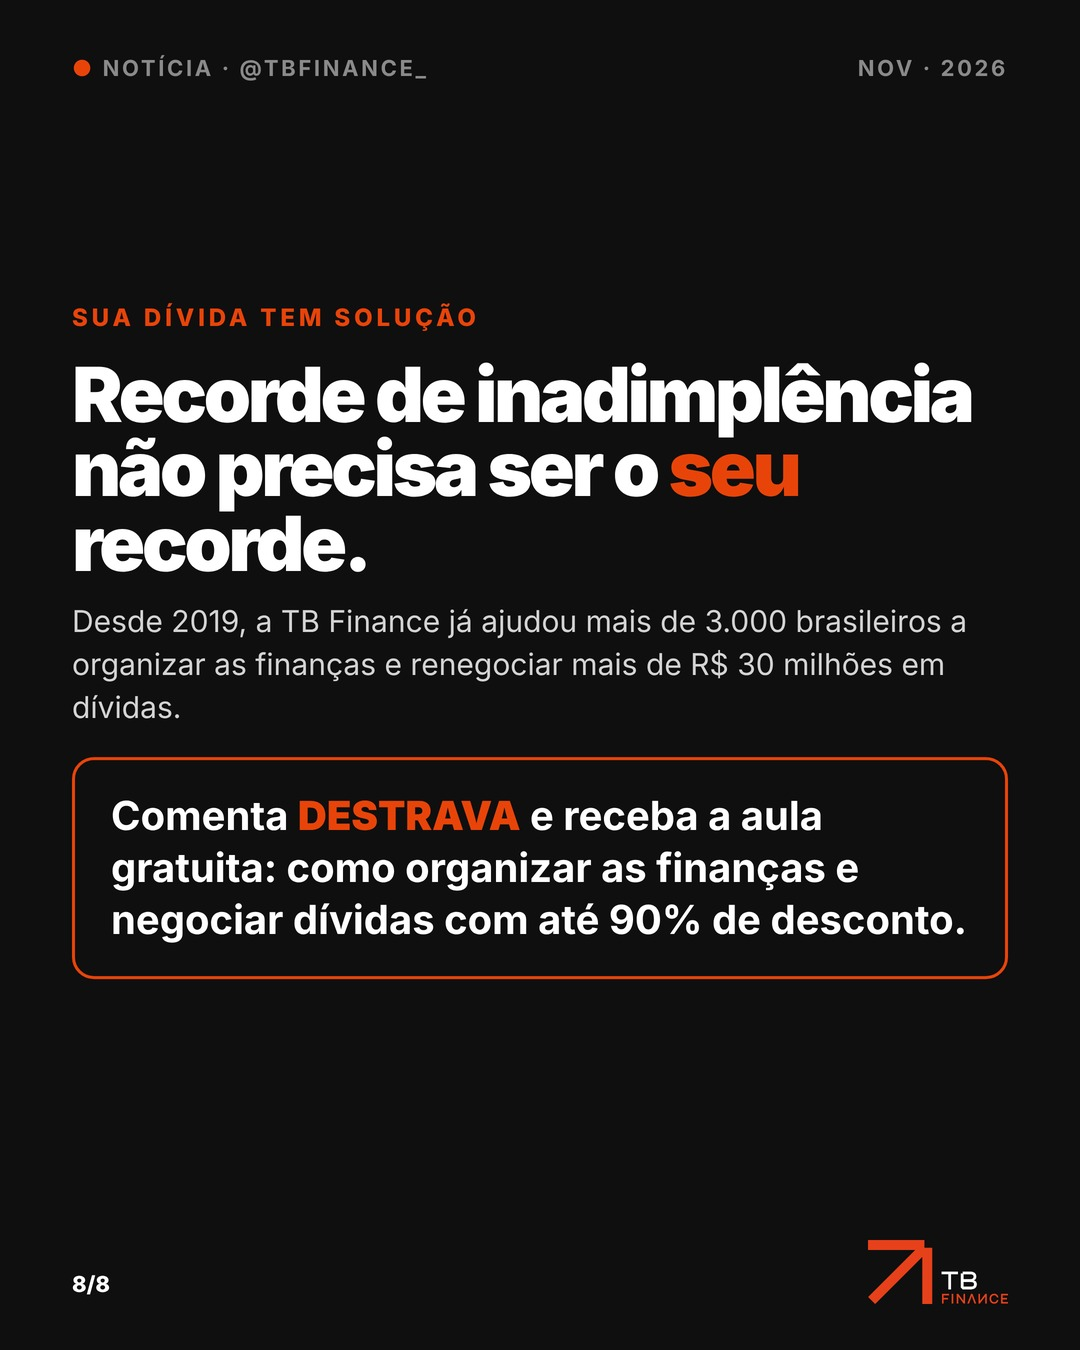
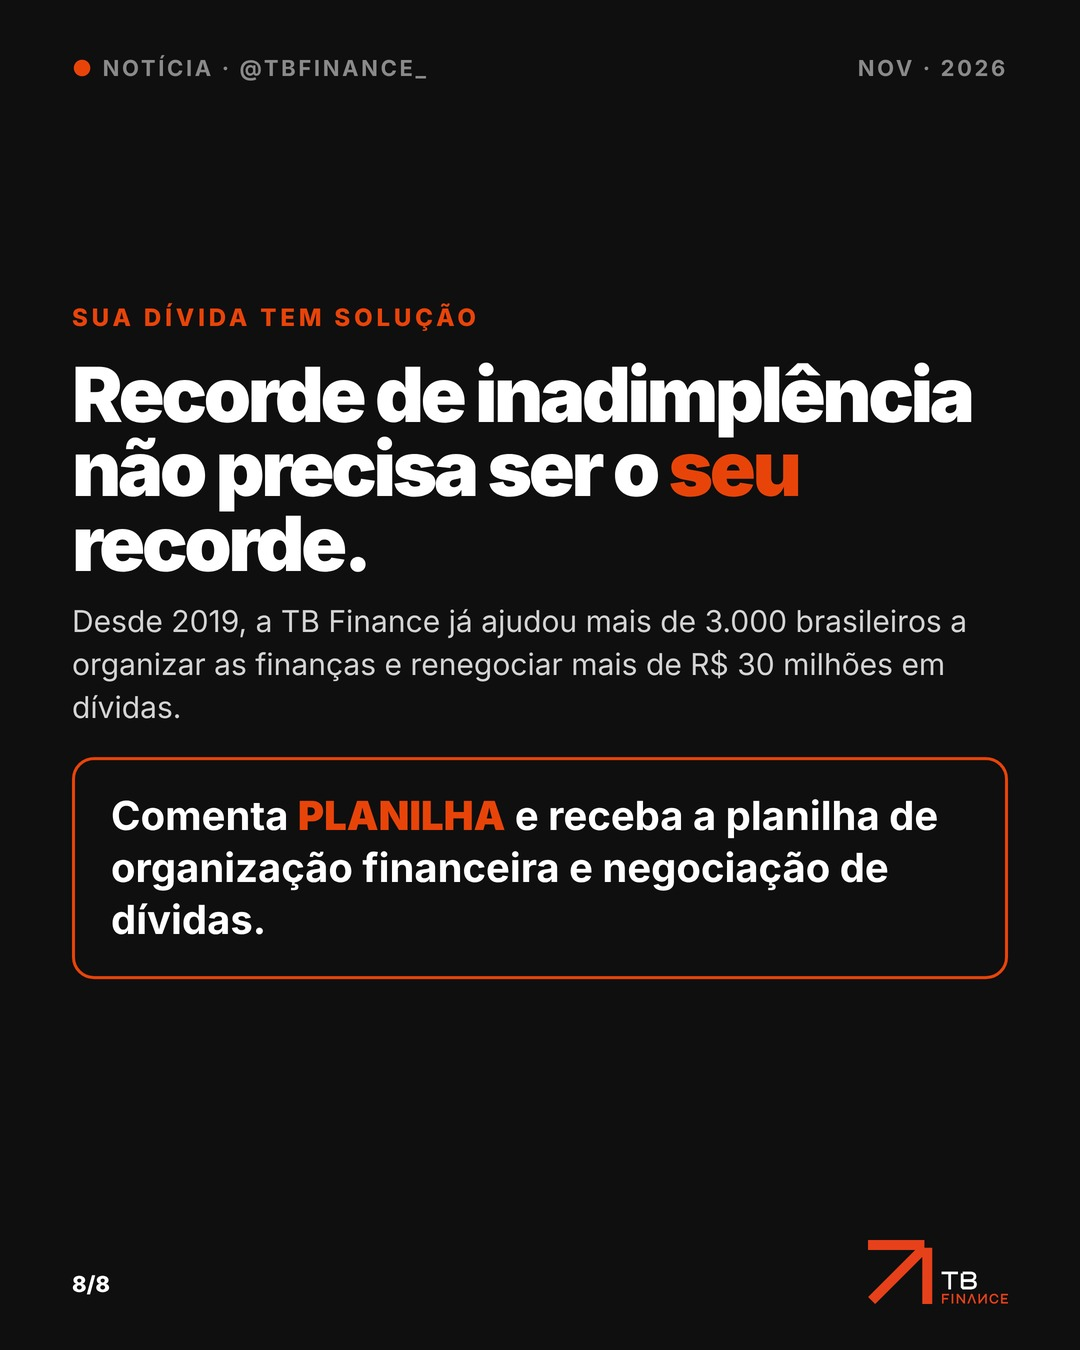
feat(marketing): carrossel do lançamento do GTA 6 na TB (18/11 19h); inadimplência vai para 23/11 com CTA PLANILHA
Claude-Session: https://claude.ai/code/session_01PgX7nvM3iYSo6xDzmGNfnx

Changed region(s): [[0.0917, 0.5911, 0.8861, 0.7156]]

diff --git a/marketing/tbfinance/carrosseis/2026-11-gta6-lancamento/slides/06.html b/marketing/tbfinance/carrosseis/2026-11-gta6-lancamento/slides/06.html
@@ -1,0 +1,7 @@
+<html><head><link rel="stylesheet" href="ed.css"><style>
+.dark .top{color:#fff}.dark .src{color:#777}.dark p{color:#D4D4D4}.dark p b{color:#fff}
+ul.l{list-style:none;margin-top:34px}ul.l li{font-size:36px;line-height:1.35;font-weight:600;padding:16px 0 16px 54px;position:relative;border-bottom:1px solid rgba(0,0,0,.08)}
+ul.l li:before{content:'→';position:absolute;left:0;color:#E8440A;font-weight:900}.dark ul.l li{border-color:rgba(255,255,255,.12);color:#fff}
+.grain{position:absolute;inset:0;background:url(grain.png);opacity:.07;mix-blend-mode:overlay;pointer-events:none}
+.big2{font-size:150px;font-weight:900;letter-spacing:-.05em;line-height:.95;color:#E8440A}
+</style></head><body class="dark"><div class="top" style="z-index:3"><span><b>●</b> NOTÍCIA · @TBFINANCE_</span><span>18 NOV · 2026</span></div><div style="position:absolute;inset:0;background:url(hq-cofrinho.jpg) center 0%/cover;filter:contrast(1.06) saturate(.92) brightness(0.95)"></div><div style="position:absolute;inset:0;background:linear-gradient(180deg,rgba(15,15,15,.55) 0%,rgba(15,15,15,0) 14%,rgba(15,15,15,0) 12%,rgba(15,15,15,.88) 30%,#0F0F0F 42%)"></div><div class="grain"></div><div class="wrap" style="top:auto;bottom:110px"><div class="kick">COMO JOGAR SEM VIRAR PROCURADO</div><h2 style="color:#fff">4 regras antes de apertar <span class="or">comprar</span>:</h2><ul class="l"><li><b>Some as parcelas</b> que você já tem antes de criar outra</li><li><b>Pix à vista</b> costuma sair mais barato (R$ 418 na Amazon)</li><li><b>Nunca pague a fatura no mínimo</b>: o rotativo pode dobrar a dívida</li><li><b>Não precisa ser no dia 1</b>: o jogo não vai fugir</li></ul></div><div class="src">Fonte: Amazon (preço no Pix em 18/11/2026); Lei 14.690/2023. Foto: Ken Teegardin (CC BY-SA 2.0).</div><div class="pg">6/7</div></body></html>

diff --git a/marketing/tbfinance/carrosseis/2026-11-gta6-lancamento/slides/02.html b/marketing/tbfinance/carrosseis/2026-11-gta6-lancamento/slides/02.html
@@ -1,0 +1,7 @@
+<html><head><link rel="stylesheet" href="ed.css"><style>
+.dark .top{color:#fff}.dark .src{color:#777}.dark p{color:#D4D4D4}.dark p b{color:#fff}
+ul.l{list-style:none;margin-top:34px}ul.l li{font-size:36px;line-height:1.35;font-weight:600;padding:16px 0 16px 54px;position:relative;border-bottom:1px solid rgba(0,0,0,.08)}
+ul.l li:before{content:'→';position:absolute;left:0;color:#E8440A;font-weight:900}.dark ul.l li{border-color:rgba(255,255,255,.12);color:#fff}
+.grain{position:absolute;inset:0;background:url(grain.png);opacity:.07;mix-blend-mode:overlay;pointer-events:none}
+.big2{font-size:150px;font-weight:900;letter-spacing:-.05em;line-height:.95;color:#E8440A}
+</style></head><body class="dark"><div class="top" style="z-index:3"><span><b>●</b> NOTÍCIA · @TBFINANCE_</span><span>18 NOV · 2026</span></div><div style="position:absolute;inset:0;background:url(hq-rockstar-north.jpg) center 30%/cover;filter:contrast(1.06) saturate(.92) brightness(1)"></div><div style="position:absolute;inset:0;background:linear-gradient(180deg,rgba(15,15,15,.55) 0%,rgba(15,15,15,0) 14%,rgba(15,15,15,0) 22%,rgba(15,15,15,.88) 40%,#0F0F0F 52%)"></div><div class="grain"></div><div class="wrap" style="top:auto;bottom:110px"><div class="kick">O QUE ACONTECEU</div><h2 style="color:#fff">Depois de 13 anos de espera, o lançamento mais aguardado dos games está rodando o mundo.</h2><ul class="l"><li><b>Nova Zelândia:</b> liberou às 8h de hoje (horário de Brasília)</li><li><b>Brasil:</b> 0h desta quinta, 19/11</li><li><b>Metacritic:</b> nota <b>99</b>, a maior já registrada no site</li></ul></div><div class="src">Fonte: Jovem Pan (18/11/2026), com dados do Metacritic. Foto: Rockstar North, Edimburgo, por Discott (CC0).</div><div class="pg">2/7</div></body></html>

diff --git a/marketing/tbfinance/carrosseis/2026-11-gta6-lancamento/slides/01.html b/marketing/tbfinance/carrosseis/2026-11-gta6-lancamento/slides/01.html
@@ -1,0 +1,10 @@
+<html><head><link rel="stylesheet" href="ed.css"><style>
+.dark .top{color:#fff}.dark .src{color:#777}.dark p{color:#D4D4D4}.dark p b{color:#fff}
+ul.l{list-style:none;margin-top:34px}ul.l li{font-size:36px;line-height:1.35;font-weight:600;padding:16px 0 16px 54px;position:relative;border-bottom:1px solid rgba(0,0,0,.08)}
+ul.l li:before{content:'→';position:absolute;left:0;color:#E8440A;font-weight:900}.dark ul.l li{border-color:rgba(255,255,255,.12);color:#fff}
+.grain{position:absolute;inset:0;background:url(grain.png);opacity:.07;mix-blend-mode:overlay;pointer-events:none}
+.big2{font-size:150px;font-weight:900;letter-spacing:-.05em;line-height:.95;color:#E8440A}
+</style></head><body class="dark"><div class="top" style="z-index:3"><span><b>●</b> NOTÍCIA · @TBFINANCE_</span><span>18 NOV · 2026</span></div><div class="bg" style="position:absolute;left:0;right:0;top:0;height:1350px;background:url(hq-ps5.jpg) center 40%/cover;filter:contrast(1.06) saturate(.92) brightness(0.9)"></div><div class="grain"></div><div style="position:absolute;inset:0;background:linear-gradient(180deg,rgba(15,15,15,.5) 0%,rgba(15,15,15,0) 18%,rgba(15,15,15,0) 38%,rgba(15,15,15,.92) 56%,#0F0F0F 66%)"></div><div style="position:absolute;left:72px;right:72px;bottom:130px"><div class="kick" style="color:#FF6B3D">GTA 6 · HOJE À MEIA-NOITE</div>
+<h1 style="color:#fff;font-size:74px">O GTA 6 já saiu na Nova Zelândia. No Brasil, chega à meia-noite. <span class="or">Cabe no seu bolso?</span></h1></div>
+<div style="position:absolute;bottom:60px;left:72px;font-size:26px;font-weight:800;letter-spacing:.12em;color:#E8440A">ARRASTE →</div>
+<div style="position:absolute;left:72px;bottom:24px;font-size:15px;color:#777">Foto: Osh33m (CC BY-SA 4.0)</div></body></html>

diff --git a/marketing/tbfinance/carrosseis/2026-11-gta6-lancamento/slides/03.html b/marketing/tbfinance/carrosseis/2026-11-gta6-lancamento/slides/03.html
@@ -1,0 +1,7 @@
+<html><head><link rel="stylesheet" href="ed.css"><style>
+.dark .top{color:#fff}.dark .src{color:#777}.dark p{color:#D4D4D4}.dark p b{color:#fff}
+ul.l{list-style:none;margin-top:34px}ul.l li{font-size:36px;line-height:1.35;font-weight:600;padding:16px 0 16px 54px;position:relative;border-bottom:1px solid rgba(0,0,0,.08)}
+ul.l li:before{content:'→';position:absolute;left:0;color:#E8440A;font-weight:900}.dark ul.l li{border-color:rgba(255,255,255,.12);color:#fff}
+.grain{position:absolute;inset:0;background:url(grain.png);opacity:.07;mix-blend-mode:overlay;pointer-events:none}
+.big2{font-size:150px;font-weight:900;letter-spacing:-.05em;line-height:.95;color:#E8440A}
+</style></head><body class="dark"><div class="top" style="z-index:3"><span><b>●</b> NOTÍCIA · @TBFINANCE_</span><span>18 NOV · 2026</span></div><div style="position:absolute;inset:0;background:url(hq-controle.jpg) center 30%/cover;filter:contrast(1.06) saturate(.92) brightness(1)"></div><div style="position:absolute;inset:0;background:linear-gradient(180deg,rgba(15,15,15,.55) 0%,rgba(15,15,15,0) 14%,rgba(15,15,15,0) 20%,rgba(15,15,15,.88) 38%,#0F0F0F 50%)"></div><div class="grain"></div><div class="wrap" style="top:auto;bottom:110px"><div class="kick">QUANTO CUSTA</div><h2 style="color:#fff">R$ 449,90 na versão padrão.</h2><div class="big2">66 horas</div><div style="font-size:34px;font-weight:800;margin:6px 0 10px">de trabalho para quem ganha um salário mínimo</div><p>A Ultimate custa <b>R$ 549,90</b>. Com salário mínimo de <b>R$ 1.621</b>, a versão padrão consome cerca de <b>8 dias de trabalho</b>.</p></div><div class="src">Fontes: PlayStation Store, via CNN Brasil; cálculo do Canaltech. Foto: Vu Hoang (CC BY 2.0).</div><div class="pg">3/7</div></body></html>

diff --git a/marketing/tbfinance/carrosseis/2026-11-gta6-lancamento/slides/05.html b/marketing/tbfinance/carrosseis/2026-11-gta6-lancamento/slides/05.html
@@ -1,0 +1,7 @@
+<html><head><link rel="stylesheet" href="ed.css"><style>
+.dark .top{color:#fff}.dark .src{color:#777}.dark p{color:#D4D4D4}.dark p b{color:#fff}
+ul.l{list-style:none;margin-top:34px}ul.l li{font-size:36px;line-height:1.35;font-weight:600;padding:16px 0 16px 54px;position:relative;border-bottom:1px solid rgba(0,0,0,.08)}
+ul.l li:before{content:'→';position:absolute;left:0;color:#E8440A;font-weight:900}.dark ul.l li{border-color:rgba(255,255,255,.12);color:#fff}
+.grain{position:absolute;inset:0;background:url(grain.png);opacity:.07;mix-blend-mode:overlay;pointer-events:none}
+.big2{font-size:150px;font-weight:900;letter-spacing:-.05em;line-height:.95;color:#E8440A}
+</style></head><body class="dark"><div class="top" style="z-index:3"><span><b>●</b> NOTÍCIA · @TBFINANCE_</span><span>18 NOV · 2026</span></div><div style="position:absolute;inset:0;background:url(hq-pagando-cartao.jpg) 70% center/cover;filter:contrast(1.06) saturate(.92) brightness(1)"></div><div style="position:absolute;inset:0;background:linear-gradient(180deg,rgba(15,15,15,.55) 0%,rgba(15,15,15,0) 14%,rgba(15,15,15,0) 22%,rgba(15,15,15,.88) 40%,#0F0F0F 52%)"></div><div class="grain"></div><div class="wrap" style="top:auto;bottom:110px"><div class="kick">O PERIGO</div><h2 style="color:#fff">O problema não é o GTA. É a <span class="or">fila de parcelas</span>.</h2><ul class="l"><li><b>Hoje:</b> GTA 6 em 8x de R$ 56</li><li><b>27/11:</b> Black Friday</li><li><b>Dezembro:</b> Natal e presentes</li><li><b>Janeiro:</b> IPVA, IPTU e material escolar</li></ul></div><div class="src">Parcelamento: Amazon (versão física). Foto: Hloom Templates (CC BY 2.0).</div><div class="pg">5/7</div></body></html>

diff --git a/marketing/tbfinance/carrosseis/2026-11-gta6-lancamento/slides/07.html b/marketing/tbfinance/carrosseis/2026-11-gta6-lancamento/slides/07.html
@@ -1,0 +1,11 @@
+<html><head><link rel="stylesheet" href="ed.css"><style>
+.dark .top{color:#fff}.dark .src{color:#777}.dark p{color:#D4D4D4}.dark p b{color:#fff}
+ul.l{list-style:none;margin-top:34px}ul.l li{font-size:36px;line-height:1.35;font-weight:600;padding:16px 0 16px 54px;position:relative;border-bottom:1px solid rgba(0,0,0,.08)}
+ul.l li:before{content:'→';position:absolute;left:0;color:#E8440A;font-weight:900}.dark ul.l li{border-color:rgba(255,255,255,.12);color:#fff}
+.grain{position:absolute;inset:0;background:url(grain.png);opacity:.07;mix-blend-mode:overlay;pointer-events:none}
+.big2{font-size:150px;font-weight:900;letter-spacing:-.05em;line-height:.95;color:#E8440A}
+</style></head><body class="dark"><div class="top" style="z-index:3"><span><b>●</b> NOTÍCIA · @TBFINANCE_</span><span>18 NOV · 2026</span></div><div class="wrap" style="top:50%;transform:translateY(-55%)"><div class="kick">MISSÃO: SAIR DO VERMELHO</div>
+<h1 style="color:#fff;font-size:76px">Zere a dívida antes de zerar o jogo.</h1>
+<div style="margin-top:34px;border:3px solid #E8440A;border-radius:22px;padding:34px 40px;font-size:44px;line-height:1.3;font-weight:700;color:#fff">Comenta <span class="or" style="font-weight:900">DESTRAVA</span> e receba a aula gratuita: como organizar as finanças e negociar dívidas com até 90% de desconto.</div>
+<div style="margin-top:26px;font-size:26px;color:#9CA3AF;font-weight:600">TB Finance · desde 2019 tirando brasileiros do vermelho</div></div>
+<img src="../../../../tbfinance/assets/logo-tb-light.png" style="position:absolute;right:72px;bottom:46px;height:64px"></body></html>

diff --git a/marketing/tbfinance/carrosseis/2026-11-gta6-lancamento/slides/04.html b/marketing/tbfinance/carrosseis/2026-11-gta6-lancamento/slides/04.html
@@ -1,0 +1,7 @@
+<html><head><link rel="stylesheet" href="ed.css"><style>
+.dark .top{color:#fff}.dark .src{color:#777}.dark p{color:#D4D4D4}.dark p b{color:#fff}
+ul.l{list-style:none;margin-top:34px}ul.l li{font-size:36px;line-height:1.35;font-weight:600;padding:16px 0 16px 54px;position:relative;border-bottom:1px solid rgba(0,0,0,.08)}
+ul.l li:before{content:'→';position:absolute;left:0;color:#E8440A;font-weight:900}.dark ul.l li{border-color:rgba(255,255,255,.12);color:#fff}
+.grain{position:absolute;inset:0;background:url(grain.png);opacity:.07;mix-blend-mode:overlay;pointer-events:none}
+.big2{font-size:150px;font-weight:900;letter-spacing:-.05em;line-height:.95;color:#E8440A}
+</style></head><body class="dark"><div class="top" style="z-index:3"><span><b>●</b> NOTÍCIA · @TBFINANCE_</span><span>18 NOV · 2026</span></div><div class="wrap" style="top:50%;transform:translateY(-50%)"><div class="kick">E SE NÃO TIVER O CONSOLE?</div><h2 style="color:#fff">Jogo + PS5 passa de <span class="or">R$ 5 mil</span>.</h2><div class="big2">3,1 salários</div><div style="font-size:34px;font-weight:800;margin:6px 0 10px">mínimos: PS5 Digital (R$ 4.599,90) + GTA 6 (R$ 449,90)</div><p>Preço sugerido pela Sony desde abril. Em promoção sai mais barato, mas continua sendo uma compra grande para a maioria das famílias.</p></div><div class="src">Fontes: Sony, via Olhar Digital e Tecnoblog; PlayStation Store. Cálculo: R$ 5.049,80 ÷ R$ 1.621.</div><div class="pg">4/7</div></body></html>

diff --git a/marketing/tbfinance/carrosseis/2026-11-gta6-lancamento/slides/ed.css b/marketing/tbfinance/carrosseis/2026-11-gta6-lancamento/slides/ed.css
@@ -1,0 +1,17 @@
+*{margin:0;padding:0;box-sizing:border-box}
+body{width:1080px;height:1350px;font-family:Inter,sans-serif;overflow:hidden;position:relative;background:#F4F2EE;color:#111}
+.top{position:absolute;top:56px;left:72px;right:72px;display:flex;justify-content:space-between;font-size:22px;font-weight:700;letter-spacing:.12em;color:#6B7280}
+.top b{color:#E8440A}
+.wrap{position:absolute;left:72px;right:72px;top:150px}
+.kick{font-size:24px;font-weight:800;letter-spacing:.16em;color:#E8440A;margin-bottom:26px}
+h1{font-size:92px;font-weight:900;letter-spacing:-.045em;line-height:.98}
+h2{font-size:68px;font-weight:900;letter-spacing:-.04em;line-height:1.02}
+p{font-size:38px;line-height:1.42;color:#2b2b2b;margin-top:34px}
+p b{color:#111}
+.or{color:#E8440A}
+.big{font-size:200px;font-weight:900;letter-spacing:-.06em;line-height:.9;color:#E8440A}
+.src{position:absolute;left:72px;right:200px;bottom:56px;font-size:20px;color:#8a8a8a;line-height:1.35}
+.pg{position:absolute;right:72px;bottom:52px;font-size:22px;font-weight:800;color:#111}
+.card{background:#fff;border-radius:22px;padding:34px 40px;margin-top:34px;box-shadow:0 2px 0 rgba(0,0,0,.04)}
+.dark{background:#0F0F0F;color:#fff}
+.dark p{color:#D4D4D4}.dark p b{color:#fff}.dark .top{color:#8a8a8a}.dark .pg{color:#fff}

diff --git a/marketing/tbfinance/carrosseis/2026-11-recorde-inadimplencia/slides/08.html b/marketing/tbfinance/carrosseis/2026-11-recorde-inadimplencia/slides/08.html
@@ -2,7 +2,7 @@
 <div class="wrap" style="top:50%;transform:translateY(-55%)"><div class="kick">SUA DÍVIDA TEM SOLUÇÃO</div>
 <h1 style="color:#fff;font-size:76px">Recorde de inadimplência não precisa ser o <span class="or">seu</span> recorde.</h1>
 <p style="font-size:30px;margin-top:20px">Desde 2019, a TB Finance já ajudou mais de 3.000 brasileiros a organizar as finanças e renegociar mais de R$ 30 milhões em dívidas.</p>
-<div style="margin-top:28px;border:3px solid #E8440A;border-radius:22px;padding:30px 36px;font-size:40px;line-height:1.3;font-weight:700;color:#fff">Comenta <span class="or" style="font-weight:900">DESTRAVA</span> e receba a aula gratuita: como organizar as finanças e negociar dívidas com até 90% de desconto.</div>
+<div style="margin-top:28px;border:3px solid #E8440A;border-radius:22px;padding:30px 36px;font-size:40px;line-height:1.3;font-weight:700;color:#fff">Comenta <span class="or" style="font-weight:900">PLANILHA</span> e receba a planilha de organização financeira e negociação de dívidas.</div>
 
 </div>
 <div class="pg" style="left:72px;right:auto">8/8</div>

diff --git a/marketing/fotos-noticias/CREDITOS.md b/marketing/fotos-noticias/CREDITOS.md
@@ -14,3 +14,6 @@
 | hq-bb-agencia.jpg | Agência do Banco do Brasil | Bruno Luiz | CC BY-SA 4.0 | File:Agência Banco do Brasil Avenida Felinto Muller.jpg |
 | hq-bb-edificio.jpg | Edifício do Banco do Brasil, Brasília | Willemarcel | CC BY-SA 3.0 | File:Edifício do Banco do Brasil, em Brasília.jpg |
 | hq-maquininha.jpg | Maquininha de cartão | Basile Morin | CC BY-SA 4.0 | File:Credit card terminal in Laos.jpg |
+| hq-ps5.jpg | PlayStation 5 e DualSense | Osh33m | CC BY-SA 4.0 | File:PlayStation 5 and DualSense (2).jpg |
+| hq-rockstar-north.jpg | Rockstar North, Edimburgo | Discott | CC0 | File:20231022 Rockstar North.jpg |
+| hq-controle.jpg | Mãos segurando controle | Vu Hoang | CC BY 2.0 | File:Hands holding video game controller (50811892858).jpg |
